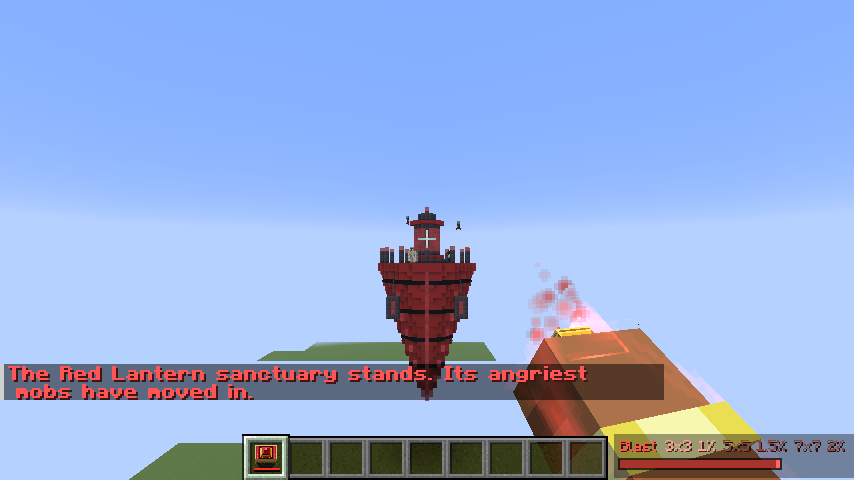
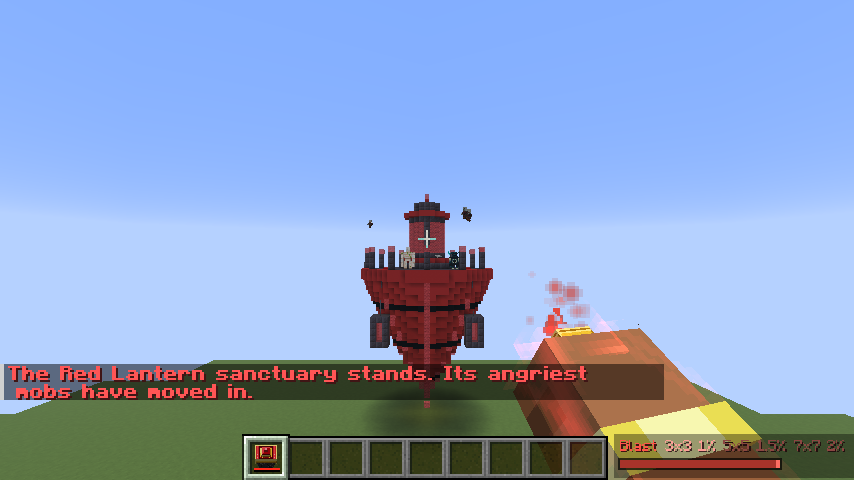
Red sanctuary: blood runs down first and the spire forms under it, and it floats lower
J saw the spire build top to bottom with no blood ahead of it, and too high up. The blood now
runs ten layers ahead of the build, dripping off its front, and each block forms under it. The
bottom point floats 4 blocks over the aimed spot (was 10) and the cone is 22 tall (was 34), so
the plaza sits 26 blocks up instead of 44.

Claude-Session: https://claude.ai/code/session_01MnfvUtwBdofXwYLcg96qEB

Changed region(s): [[0.0, 0.4062, 0.7307, 1.0], [0.822, 0.8125, 1.0, 1.0], [0.7916, 0.7812, 0.822, 0.8125]]

diff --git a/src/main/java/com/sparky/lanternring/corps/RedSanctuary.java b/src/main/java/com/sparky/lanternring/corps/RedSanctuary.java
@@ -12,10 +12,12 @@ import java.util.ArrayDeque;
 import java.util.ArrayList;
 import java.util.Deque;
 import java.util.HashMap;
+import java.util.HashSet;
 import java.util.Iterator;
 import java.util.LinkedHashMap;
 import java.util.List;
 import java.util.Map;
+import java.util.Set;
 import net.fabricmc.fabric.api.event.lifecycle.v1.ServerLifecycleEvents;
 import net.fabricmc.fabric.api.event.lifecycle.v1.ServerTickEvents;
 import net.minecraft.ChatFormatting;
@@ -23,6 +25,7 @@ import net.minecraft.core.BlockPos;
 import net.minecraft.core.Direction;
 import net.minecraft.core.Registry;
 import net.minecraft.core.particles.DustParticleOptions;
+import net.minecraft.core.particles.ParticleTypes;
 import net.minecraft.core.registries.BuiltInRegistries;
 import net.minecraft.core.registries.Registries;
 import net.minecraft.network.chat.Component;
@@ -119,9 +122,11 @@ public final class RedSanctuary {
 	// ---- the Rage Spire -------------------------------------------------------------------------
 
 	/** The plaza's radius, and the heights (above the bottom point) of the plaza and the crown. */
-	public static final int R = 12, PLAZA = 34, CROWN = 50;
+	public static final int R = 12, PLAZA = 22, CROWN = PLAZA + 16;
 	/** How far above the aimed-at ground the bottom point floats. */
-	static final int FLOAT = 10;
+	public static final int FLOAT = 4;
+	/** How many layers the blood runs down ahead of the blocks forming under it. */
+	static final int BLOOD_LEAD = 10;
 	/** The blood orb's radius, and how far above the crown it forms. */
 	static final int ORB = 7, ORB_HEIGHT = 12;
 
@@ -297,6 +302,9 @@ public final class RedSanctuary {
 		/** The plan's positions in layers, top first. */
 		final List<List<BlockPos>> layers = new ArrayList<>();
 		final Deque<Pending> pending = new ArrayDeque<>();
+		/** Blood already running down over blocks that haven't started forming yet, and the next layer it reaches. */
+		final Set<BlockPos> wet = new HashSet<>();
+		int wetTo;
 		final List<Display.BlockDisplay> orb = new ArrayList<>();
 		final List<int[]> orbOffsets = new ArrayList<>();
 		int orbRadius = -1;
@@ -329,6 +337,9 @@ public final class RedSanctuary {
 				for (Pending p : w.pending) {
 					if (w.level.getBlockState(p.pos).is(BLOOD_COAT)) w.level.setBlock(p.pos, p.want, FLAGS);
 				}
+				for (BlockPos p : w.wet) {
+					if (w.level.getBlockState(p).is(BLOOD_COAT)) w.level.setBlock(p, w.plan.get(p), FLAGS);
+				}
 				clearOrb(w);
 			}
 			WORK.clear();
@@ -339,6 +350,7 @@ public final class RedSanctuary {
 	static boolean pending(ServerLevel level, BlockPos pos) {
 		for (Work w : WORK) {
 			if (w.level != level) continue;
+			if (w.wet.contains(pos)) return true;
 			for (Pending p : w.pending) {
 				if (p.pos.equals(pos)) return true;
 			}
@@ -506,8 +518,19 @@ public final class RedSanctuary {
 						}
 					}
 					w.resumed = false;
+					w.wetTo = site.layer;
 				}
 				int perLayer = Math.max(1, RingTuning.SANCTUARY_BUILD.ticks() / Math.max(1, w.layers.size()));
+				// The blood runs down first, BLOOD_LEAD layers ahead, and the spire forms underneath it.
+				while (w.wetTo < Math.min(w.layers.size(), site.layer + BLOOD_LEAD)) {
+					for (BlockPos p : w.layers.get(w.wetTo)) {
+						if (open(w, p) && fillable(level.getBlockState(p)) && !level.getBlockState(p).is(BLOOD_COAT)) {
+							level.setBlock(p, BLOOD_COAT.defaultBlockState(), FLAGS);
+							w.wet.add(p);
+						}
+					}
+					w.wetTo++;
+				}
 				if (now >= w.nextLayer && site.layer < w.layers.size()) {
 					for (BlockPos p : w.layers.get(site.layer)) place(w, p, false, now);
 					site.layer++;
@@ -552,20 +575,22 @@ public final class RedSanctuary {
 	 */
 	private static void place(Work w, BlockPos p, boolean away, long now) {
 		BlockState want = away ? Blocks.AIR.defaultBlockState() : w.plan.get(p);
+		w.wet.remove(p);
 		if (!away && !fillable(w.level.getBlockState(p))) return;
-		boolean open = false;
-		for (Direction d : Direction.values()) {
-			if (!w.plan.containsKey(p.relative(d))) {
-				open = true;
-				break;
-			}
-		}
-		if (!open) {
+		if (!open(w, p)) {
 			w.level.setBlock(p, want, FLAGS);
 			return;
 		}
 		w.level.setBlock(p, BLOOD_COAT.defaultBlockState(), FLAGS);
 		w.pending.add(new Pending(p, want, now + RingTuning.SANCTUARY_BLOOD.ticks()));
+	}
+
+	/** Whether any side of {@code p} faces out of the spire (so someone could see it). */
+	private static boolean open(Work w, BlockPos p) {
+		for (Direction d : Direction.values()) {
+			if (!w.plan.containsKey(p.relative(d))) return true;
+		}
+		return false;
 	}
 
 	/** Blood that has waited long enough sets into its block (or drains away). */
@@ -584,18 +609,20 @@ public final class RedSanctuary {
 
 	/** Blood runs off the lowest open blocks in the band and drips away like red rain. */
 	private static void drips(Work w) {
-		if (w.pending.isEmpty()) return;
+		List<BlockPos> all = new ArrayList<>(w.wet);
+		for (Pending p : w.pending) all.add(p.pos);
+		if (all.isEmpty()) return;
 		RandomSource random = w.level.getRandom();
-		Pending[] all = w.pending.toArray(new Pending[0]);
-		for (int i = 0; i < 4; i++) {
-			Pending p = all[random.nextInt(all.length)];
-			if (!w.level.getBlockState(p.pos.below()).isAir()) continue;
+		for (int i = 0; i < 8; i++) {
+			BlockPos p = all.get(random.nextInt(all.size()));
+			if (!w.level.getBlockState(p.below()).isAir()) continue;
 			// Count 0: the offsets are the drop's velocity.
 			for (int k = 0; k < 3; k++) {
-				w.level.sendParticles(BLOOD, p.pos.getX() + random.nextDouble(), p.pos.getY() - 0.05, p.pos.getZ() + random.nextDouble(),
+				w.level.sendParticles(BLOOD, p.getX() + random.nextDouble(), p.getY() - 0.05, p.getZ() + random.nextDouble(),
 						0, 0, -1, 0, 1.0);
 			}
-			w.level.sendParticles(ModParticles.of(ModParticles.MOTE, Corps.RED), p.pos.getX() + 0.5, p.pos.getY(), p.pos.getZ() + 0.5,
+			w.level.sendParticles(ParticleTypes.DRIPPING_LAVA, p.getX() + random.nextDouble(), p.getY() - 0.05, p.getZ() + random.nextDouble(), 1, 0, 0, 0, 0);
+			w.level.sendParticles(ModParticles.of(ModParticles.MOTE, Corps.RED), p.getX() + 0.5, p.getY(), p.getZ() + 0.5,
 					1, 0.3, 0.1, 0.3, 0.01);
 		}
 	}

diff --git a/src/gametest/java/com/sparky/lanternring/test/RedSanctuaryTest.java b/src/gametest/java/com/sparky/lanternring/test/RedSanctuaryTest.java
@@ -24,7 +24,7 @@ public class RedSanctuaryTest implements FabricClientGameTest {
 	private static void report(TestSingleplayerContext world, BlockPos o, String when) {
 		world.getServer().runOnServer(server -> {
 			var level = server.getPlayerList().getPlayers().get(0).level();
-			BlockPos anchor = o.above(10);
+			BlockPos anchor = o.above(RedSanctuary.FLOAT);
 			int placed = 0, blood = 0, total = 0;
 			for (Map.Entry<BlockPos, BlockState> e : RedSanctuary.plan(anchor).entrySet()) {
 				total++;
@@ -68,7 +68,7 @@ public class RedSanctuaryTest implements FabricClientGameTest {
 						for (int z = -20; z <= 20; z++) level.setBlock(o.offset(x, y, z), Blocks.AIR.defaultBlockState(), 2);
 				p.getAbilities().flying = true;
 				p.onUpdateAbilities();
-				p.teleportTo(o.getX() + 0.5, o.getY() + 45, o.getZ() - 80.5);
+				p.teleportTo(o.getX() + 0.5, o.getY() + 28, o.getZ() - 60.5);
 				System.out.println("[sanctuary] raised=" + RedSanctuary.raise(level, p, o));
 			});
 			ctx.getInput().lookAt(0f, -4f);
@@ -91,7 +91,7 @@ public class RedSanctuaryTest implements FabricClientGameTest {
 			// On the plaza with the residents.
 			world.getServer().runOnServer(server -> {
 				ServerPlayer p = server.getPlayerList().getPlayers().get(0);
-				BlockPos plaza = RedSanctuary.plaza(origin[0].above(10));
+				BlockPos plaza = RedSanctuary.plaza(origin[0].above(RedSanctuary.FLOAT));
 				p.teleportTo(plaza.getX() + 0.5, plaza.getY() + 2, plaza.getZ() - 9.5);
 			});
 			ctx.getInput().lookAt(0f, 12f);
@@ -104,10 +104,10 @@ public class RedSanctuaryTest implements FabricClientGameTest {
 			// Break the core lantern: the spire dissolves back into blood.
 			world.getServer().runOnServer(server -> {
 				ServerPlayer p = server.getPlayerList().getPlayers().get(0);
-				BlockPos core = RedSanctuary.core(origin[0].above(10));
+				BlockPos core = RedSanctuary.core(origin[0].above(RedSanctuary.FLOAT));
 				System.out.println("[sanctuary] core is lantern=" + p.level().getBlockState(core).is(ModRegistry.POWER_BATTERY));
 				p.level().setBlock(core, Blocks.AIR.defaultBlockState(), 3);
-				p.teleportTo(origin[0].getX() + 0.5, origin[0].getY() + 45, origin[0].getZ() - 80.5);
+				p.teleportTo(origin[0].getX() + 0.5, origin[0].getY() + 28, origin[0].getZ() - 60.5);
 			});
 			ctx.getInput().lookAt(0f, -4f);
 			ctx.waitTicks(150);
